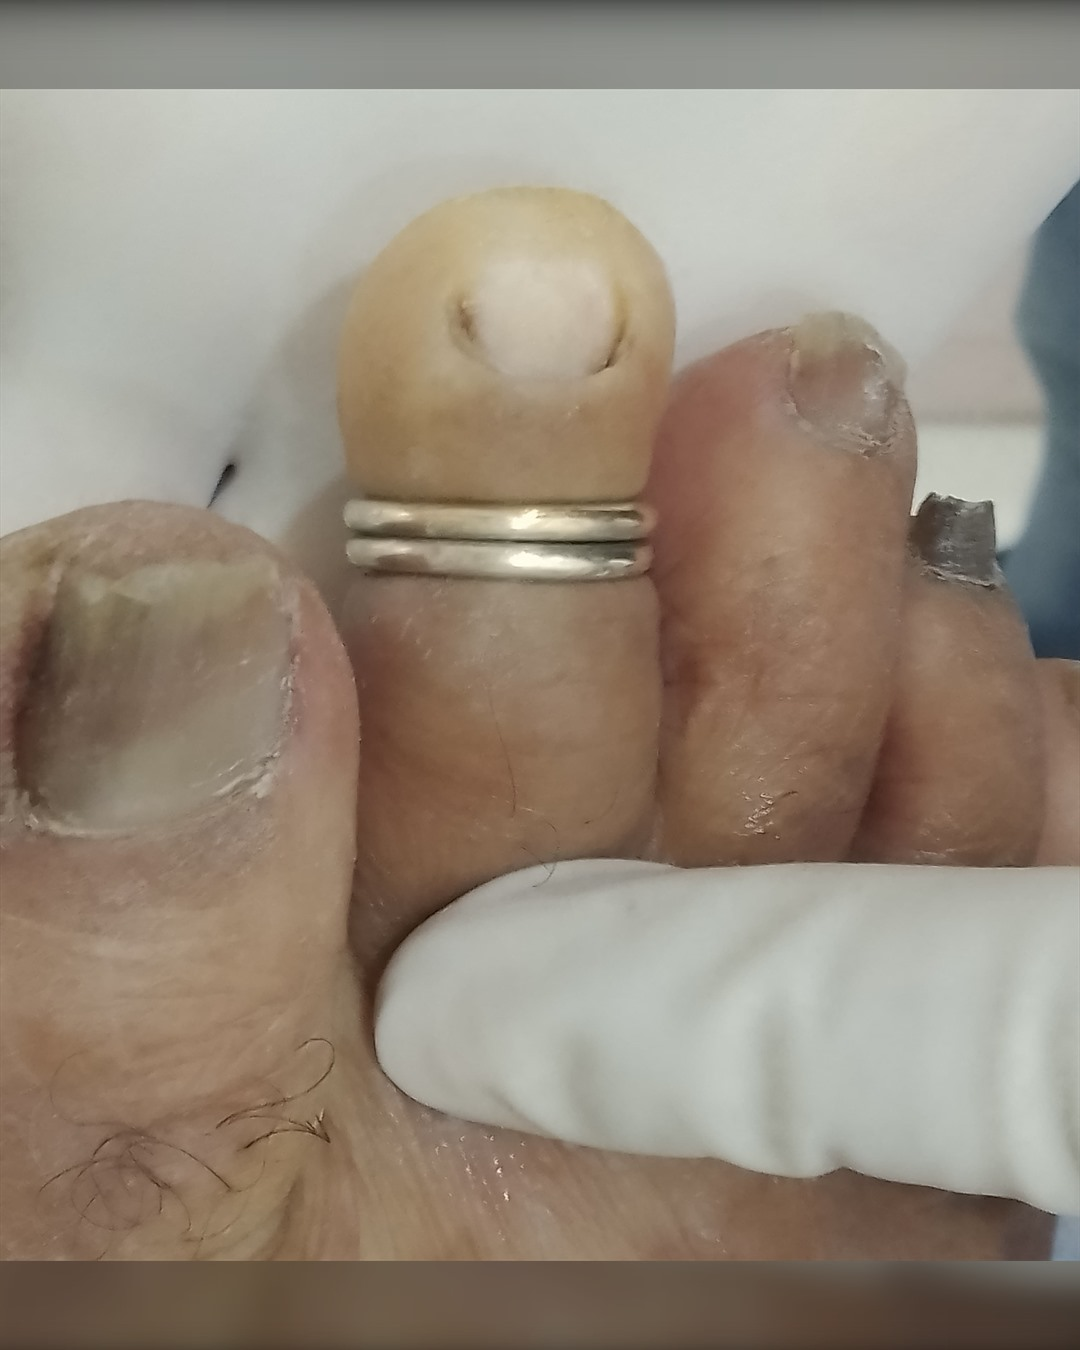
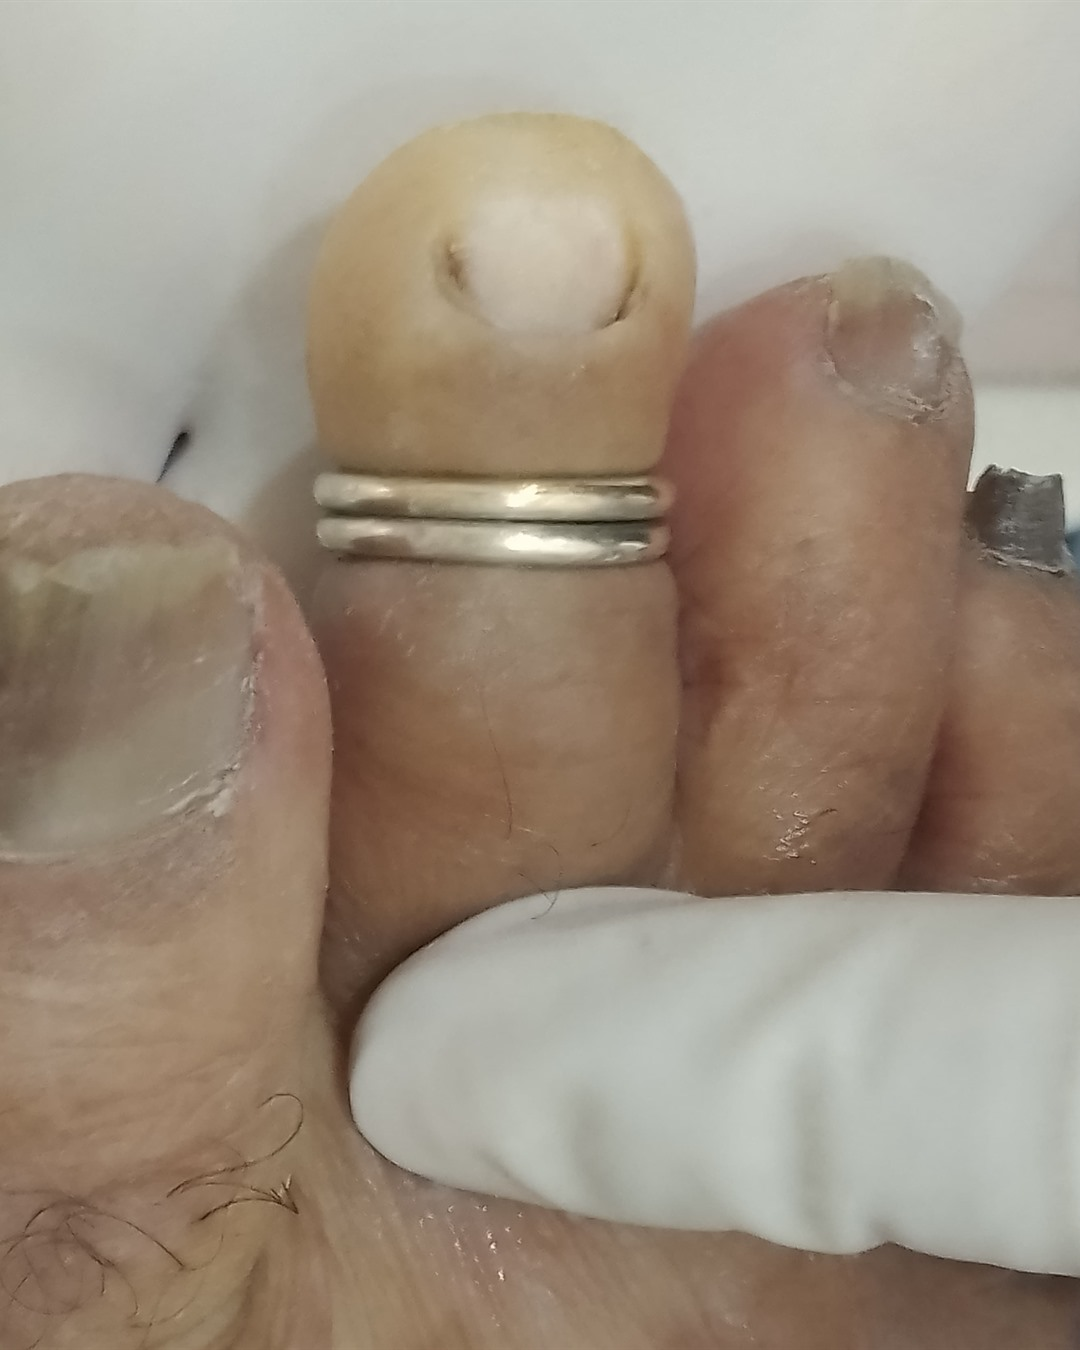
Treatment cards: full-card hover image, white text, real photos
- Hover behaviour: the reveal image now fades in over the full card
  (not just the bottom 60%), with a dark gradient overlay and white
  text/icon for readability
- Replace mismatched stock images with the clinic's own treatment
  photos from /results/ wherever a real match exists:
  - Acne -> acne-before
  - Uneven Skin/Melasma -> pigmentation-after (was a doctor portrait)
  - Anti-Ageing -> antiage-before
  - Nail Infection & Surgery -> nail-before
  - Hair Fall Treatment -> prp-before
  - PRP / GFC Therapy -> prp-after
  - Mole Removal -> mole-before
  - Fungal Infections -> nail-before
- Revert nail pair in Results back to cover-fit at 1080x1350

diff --git a/src/data/treatments.ts b/src/data/treatments.ts
@@ -21,19 +21,19 @@ export const TREATMENTS: Record<TreatmentTab, Treatment[]> = {
       icon: 'pulse',
       title: 'Acne, Spots & Acne Scars',
       desc: 'From active breakouts to lingering spots and scars — peels, lasers and micro-needling.',
-      img: 'https://images.unsplash.com/photo-1576091160550-2173dba999ef?w=900&q=80&auto=format&fit=crop',
+      img: '/results/acne-before.jpg',
     },
     {
       icon: 'sliders',
       title: 'Uneven Skin, Dullness & Melasma',
       desc: 'Brightening regimens and gentle laser protocols tailored to Indian skin tones.',
-      img: 'https://images.unsplash.com/photo-1612349317150-e413f6a5b16d?w=900&q=80&auto=format&fit=crop',
+      img: '/results/pigmentation-after.jpg',
     },
     {
       icon: 'syringe',
       title: 'Anti-Ageing',
       desc: 'Subtle, natural correction — Botox, fillers and collagen-stimulating treatments.',
-      img: 'https://images.unsplash.com/photo-1571781926291-c477ebfd024b?w=900&q=80&auto=format&fit=crop',
+      img: '/results/antiage-before.jpg',
     },
     {
       icon: 'shield',
@@ -69,7 +69,7 @@ export const TREATMENTS: Record<TreatmentTab, Treatment[]> = {
       icon: 'scalpel',
       title: 'Nail Infection & Surgery',
       desc: 'Fungal infections, discoloration, brittle nails and ingrown-nail surgery.',
-      img: 'https://images.unsplash.com/photo-1604654894610-df63bc536371?w=900&q=80&auto=format&fit=crop',
+      img: '/results/nail-before.jpg',
     },
   ],
   hair: [
@@ -77,13 +77,13 @@ export const TREATMENTS: Record<TreatmentTab, Treatment[]> = {
       icon: 'leaf',
       title: 'Hair Fall Treatment',
       desc: 'Medical evaluation, scalp analysis, and a written plan with timelines.',
-      img: 'https://images.unsplash.com/photo-1605497788044-5a32c7078486?w=900&q=80&auto=format&fit=crop',
+      img: '/results/prp-before.jpg',
     },
     {
       icon: 'syringe',
       title: 'PRP / GFC Therapy',
       desc: 'Growth-factor therapy for active hair loss and post-transplant support.',
-      img: 'https://images.unsplash.com/photo-1559599101-f09722fb4948?w=900&q=80&auto=format&fit=crop',
+      img: '/results/prp-after.jpg',
     },
     {
       icon: 'scissors',
@@ -115,7 +115,7 @@ export const TREATMENTS: Record<TreatmentTab, Treatment[]> = {
       icon: 'pulse',
       title: 'Fungal Infections',
       desc: 'Skin and nail fungal infections — diagnosis, oral and topical antifungals, follow-up reviews.',
-      img: 'https://images.unsplash.com/photo-1604654894610-df63bc536371?w=900&q=80&auto=format&fit=crop',
+      img: '/results/nail-before.jpg',
     },
     {
       icon: 'spark',
@@ -139,7 +139,7 @@ export const TREATMENTS: Record<TreatmentTab, Treatment[]> = {
       icon: 'scalpel',
       title: 'Mole Removal',
       desc: 'Cosmetic and diagnostic excision of moles with fine sutures — minimal scarring.',
-      img: 'https://images.unsplash.com/photo-1576091160399-112ba8d25d1d?w=900&q=80&auto=format&fit=crop',
+      img: '/results/mole-before.jpg',
     },
     {
       icon: 'stitch',

diff --git a/src/index.css b/src/index.css
@@ -151,21 +151,37 @@ em {
 }
 .reveal-card .reveal-img {
   position: absolute;
-  inset: auto 0 0 0;
-  height: 0%;
+  inset: 0;
   background-size: cover;
   background-position: center;
-  transition: height 0.55s cubic-bezier(0.2, 0.7, 0.2, 1);
-  opacity: 0.92;
+  opacity: 0;
+  transition: opacity 0.45s ease;
+  z-index: 1;
 }
 .reveal-card:hover .reveal-img {
-  height: 60%;
+  opacity: 1;
 }
 .reveal-card .reveal-img::after {
   content: '';
   position: absolute;
   inset: 0;
-  background: linear-gradient(180deg, rgba(255, 255, 255, 0.6) 0%, rgba(255, 255, 255, 0) 35%);
+  background: linear-gradient(180deg, rgba(31, 27, 22, 0.55) 0%, rgba(31, 27, 22, 0.7) 100%);
+}
+.reveal-card > .reveal-card-content {
+  position: relative;
+  z-index: 2;
+  transition: color 0.35s ease;
+}
+.reveal-card:hover .reveal-card-content,
+.reveal-card:hover .reveal-card-content h3,
+.reveal-card:hover .reveal-card-content p,
+.reveal-card:hover .reveal-card-content a,
+.reveal-card:hover .reveal-card-content span {
+  color: #fff;
+}
+.reveal-card:hover .reveal-card-content .reveal-card-icon {
+  border-color: rgba(255, 255, 255, 0.6);
+  color: #fff;
 }
 
 .tab-btn {

diff --git a/src/components/Treatments.tsx b/src/components/Treatments.tsx
@@ -40,11 +40,11 @@ export function Treatments() {
               key={`${tab}-${idx}`}
               className="reveal-card card p-7 h-full flex flex-col in"
             >
-              <div className="relative z-10">
-                <div className="w-11 h-11 rounded-full border border-line grid place-items-center text-ink mb-6 [&_svg]:w-5 [&_svg]:h-5">
+              <div className="reveal-card-content">
+                <div className="reveal-card-icon w-11 h-11 rounded-full border border-line grid place-items-center text-ink mb-6 [&_svg]:w-5 [&_svg]:h-5">
                   {ICONS[it.icon]}
                 </div>
-                <h3 className="font-serif text-[22px] leading-tight mb-2">{it.title}</h3>
+                <h3 className="font-serif text-[22px] leading-tight mb-2 text-ink">{it.title}</h3>
                 <p className="text-inksoft text-[14.5px] leading-relaxed">{it.desc}</p>
                 <div className="mt-6 inline-flex items-center gap-1.5 text-[13px] text-ink/85">
                   <span>Learn more</span>
